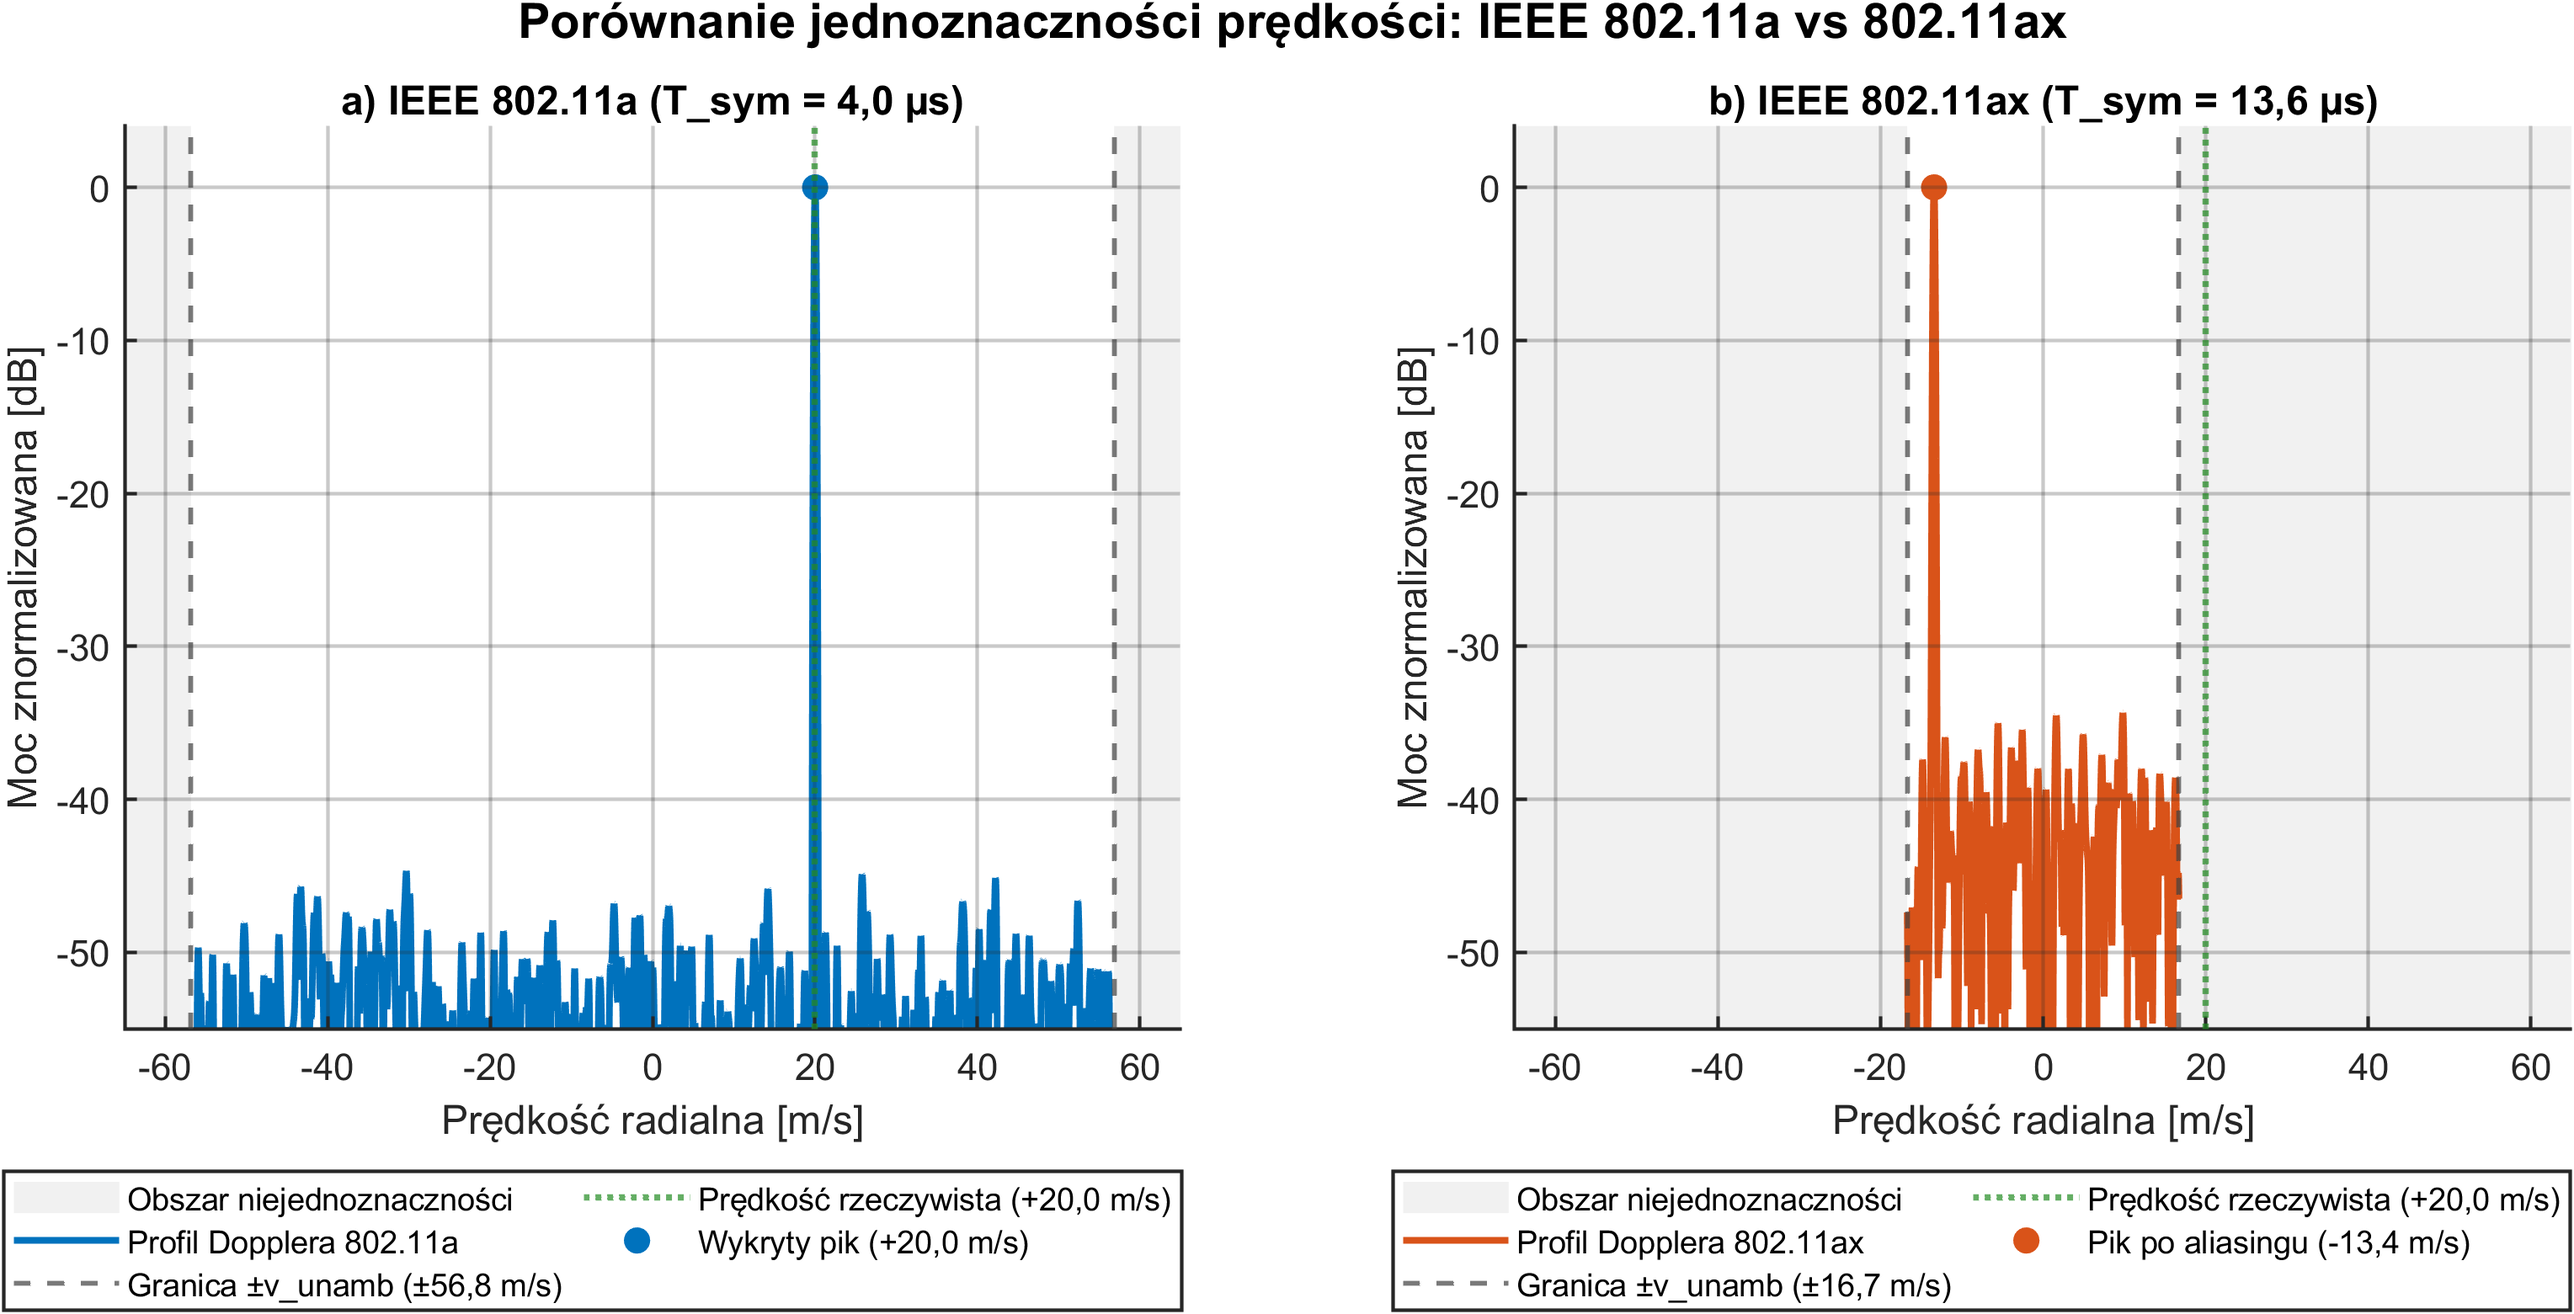
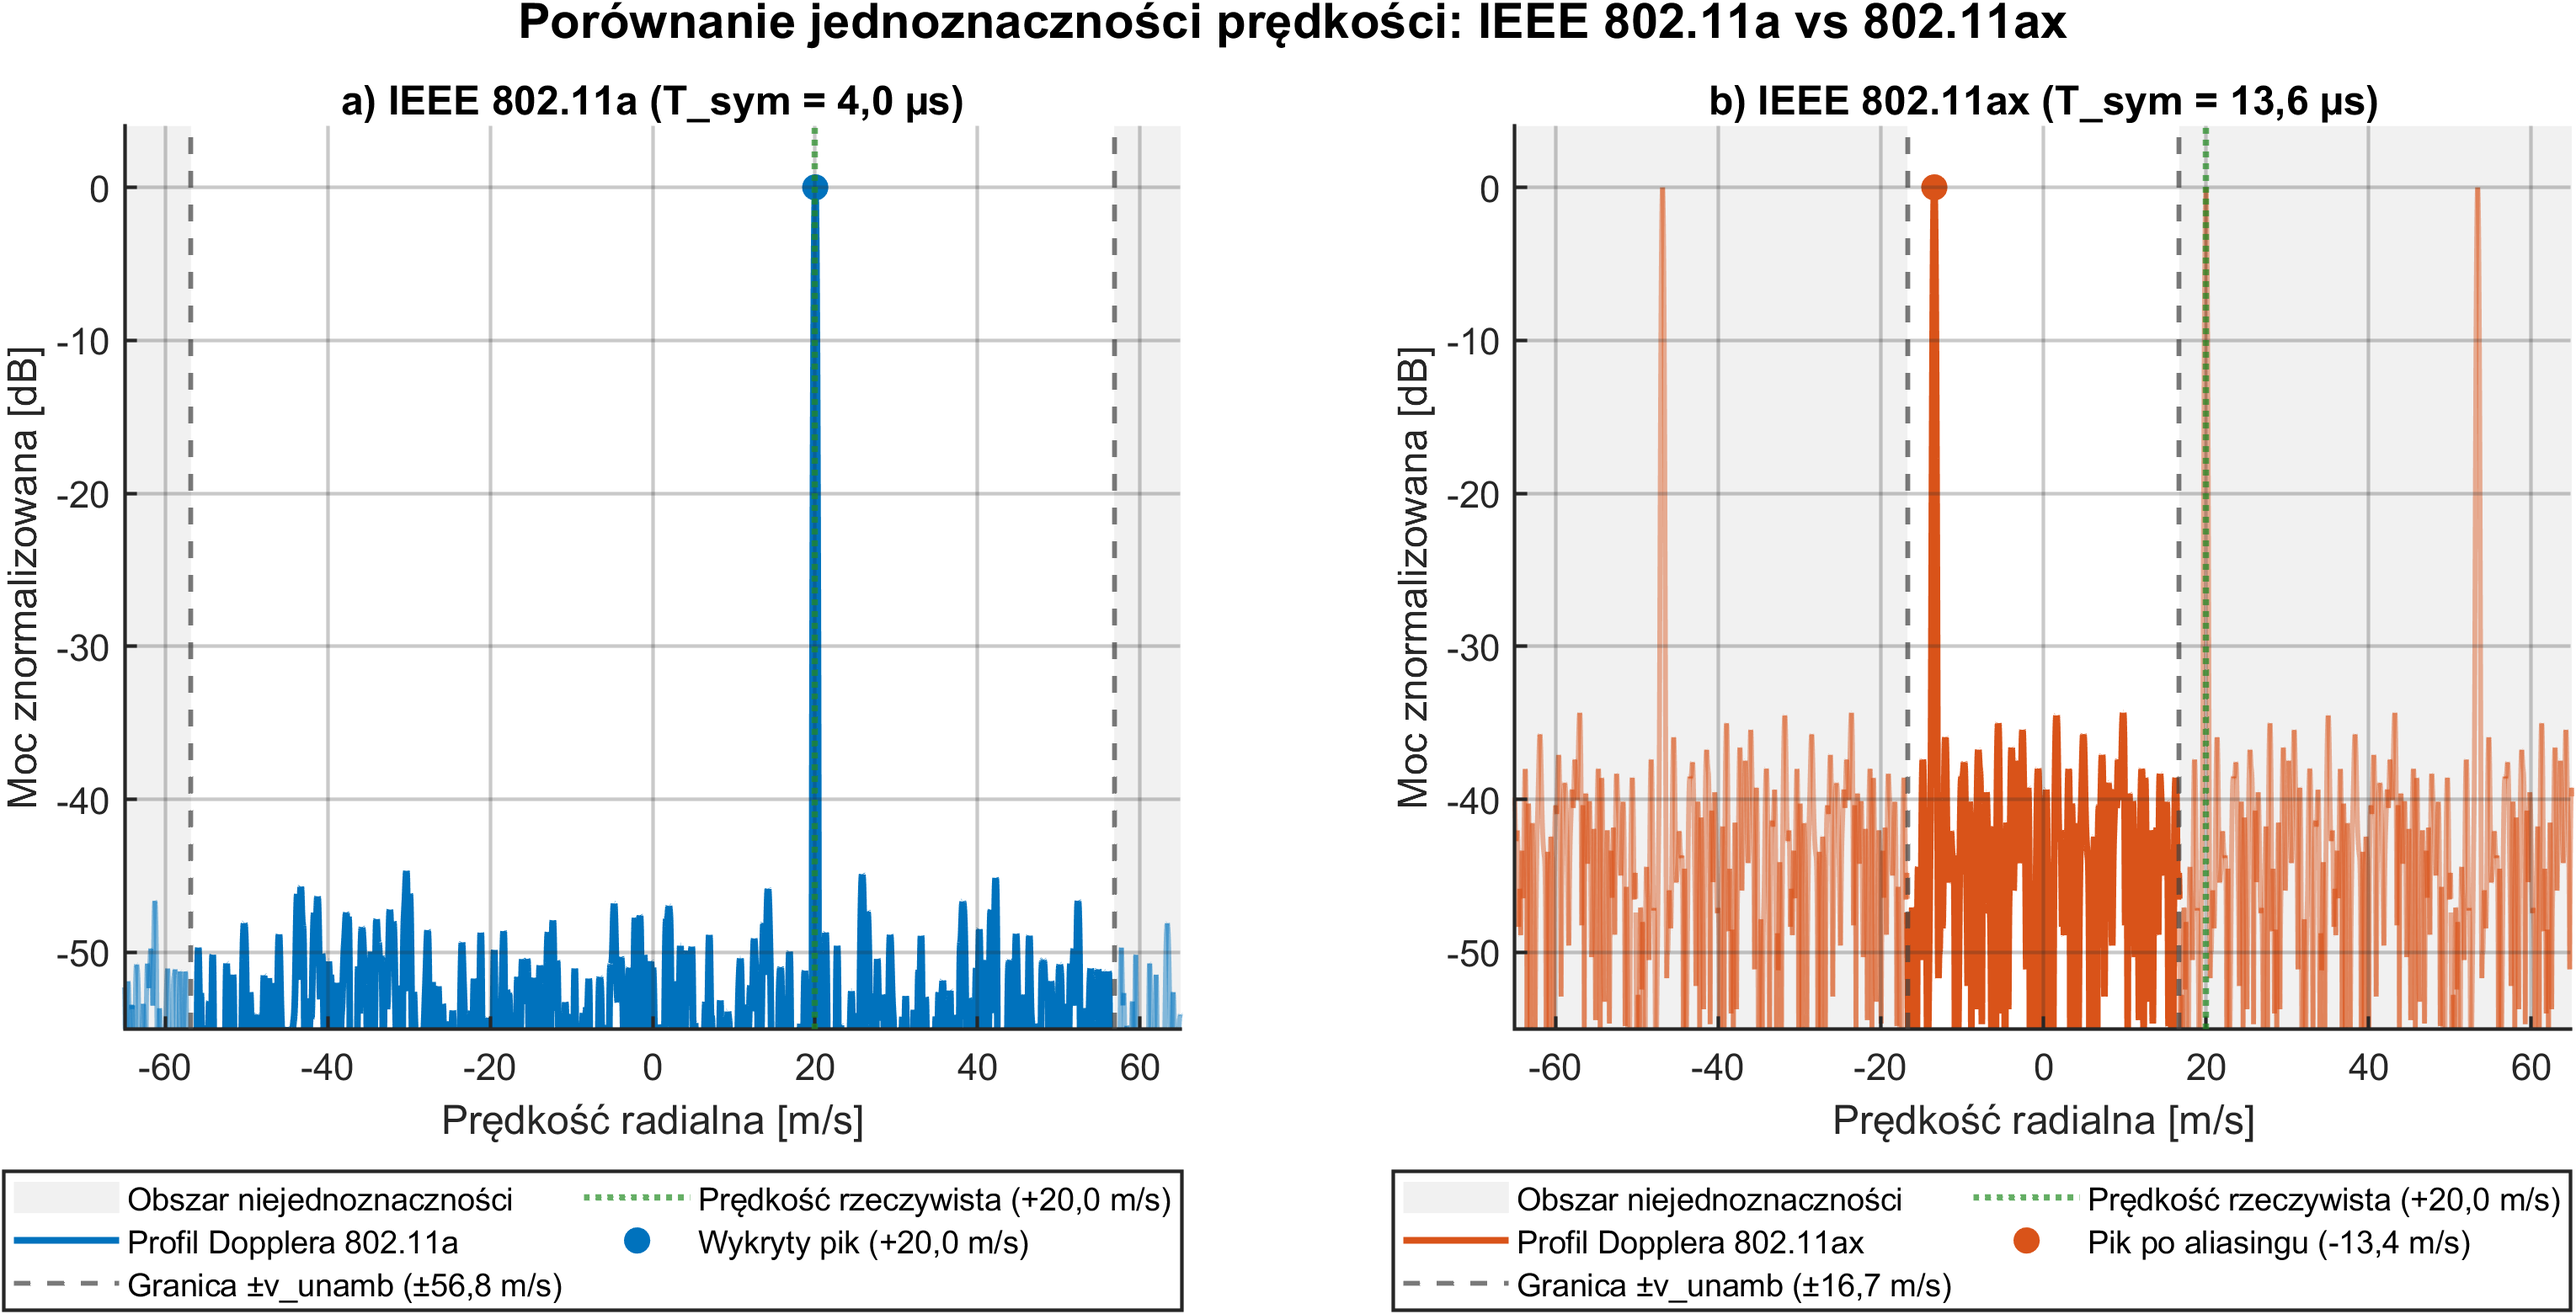
fig 2 fix

diff --git a/scripts/figures/ch4_sim/gen_fig_4_2_doppler_aliasing.m b/scripts/figures/ch4_sim/gen_fig_4_2_doppler_aliasing.m
@@ -99,6 +99,13 @@ patch([-65, -v_unamb(1), -v_unamb(1), -65], [-60, -60, 5, 5], [0.92, 0.92, 0.92]
 patch([v_unamb(1), 65, 65, v_unamb(1)], [-60, -60, 5, 5], [0.92, 0.92, 0.92], ...
     'EdgeColor', 'none', 'FaceAlpha', 0.7, 'HandleVisibility', 'off');
 
+% Plot periodic spectrum replicas outside [-v_unamb, +v_unamb]
+T_v1 = 2 * v_unamb(1);
+for k_rep = [-1, 1]
+    plot(axes_v{1} + k_rep * T_v1, cuts_dB{1}, '-', ...
+        'Color', [color_a, 0.45], 'LineWidth', 1.4, 'HandleVisibility', 'off');
+end
+
 plot(axes_v{1}, cuts_dB{1}, '-', 'Color', color_a, 'LineWidth', 1.9, ...
     'DisplayName', 'Profil Dopplera 802.11a');
 xline(-v_unamb(1), '--', 'Color', color_bound, 'LineWidth', 1.4, ...
@@ -131,6 +138,13 @@ patch([-65, -v_unamb(2), -v_unamb(2), -65], [-60, -60, 5, 5], [0.92, 0.92, 0.92]
     'EdgeColor', 'none', 'FaceAlpha', 0.7, 'DisplayName', 'Obszar niejednoznaczności');
 patch([v_unamb(2), 65, 65, v_unamb(2)], [-60, -60, 5, 5], [0.92, 0.92, 0.92], ...
     'EdgeColor', 'none', 'FaceAlpha', 0.7, 'HandleVisibility', 'off');
+
+% Plot periodic spectrum replicas outside [-v_unamb, +v_unamb]
+T_v2 = 2 * v_unamb(2);
+for k_rep = [-2, -1, 1, 2]
+    plot(axes_v{2} + k_rep * T_v2, cuts_dB{2}, '-', ...
+        'Color', [color_ax, 0.45], 'LineWidth', 1.4, 'HandleVisibility', 'off');
+end
 
 plot(axes_v{2}, cuts_dB{2}, '-', 'Color', color_ax, 'LineWidth', 1.9, ...
     'DisplayName', 'Profil Dopplera 802.11ax');
